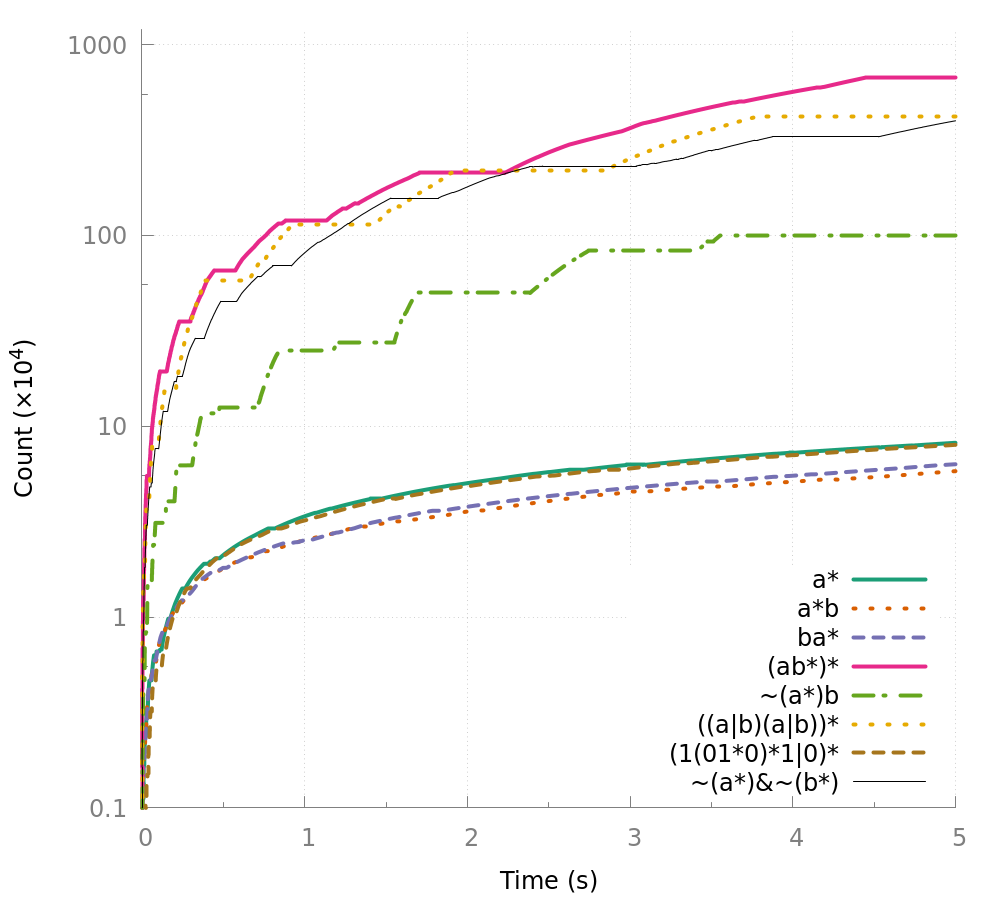
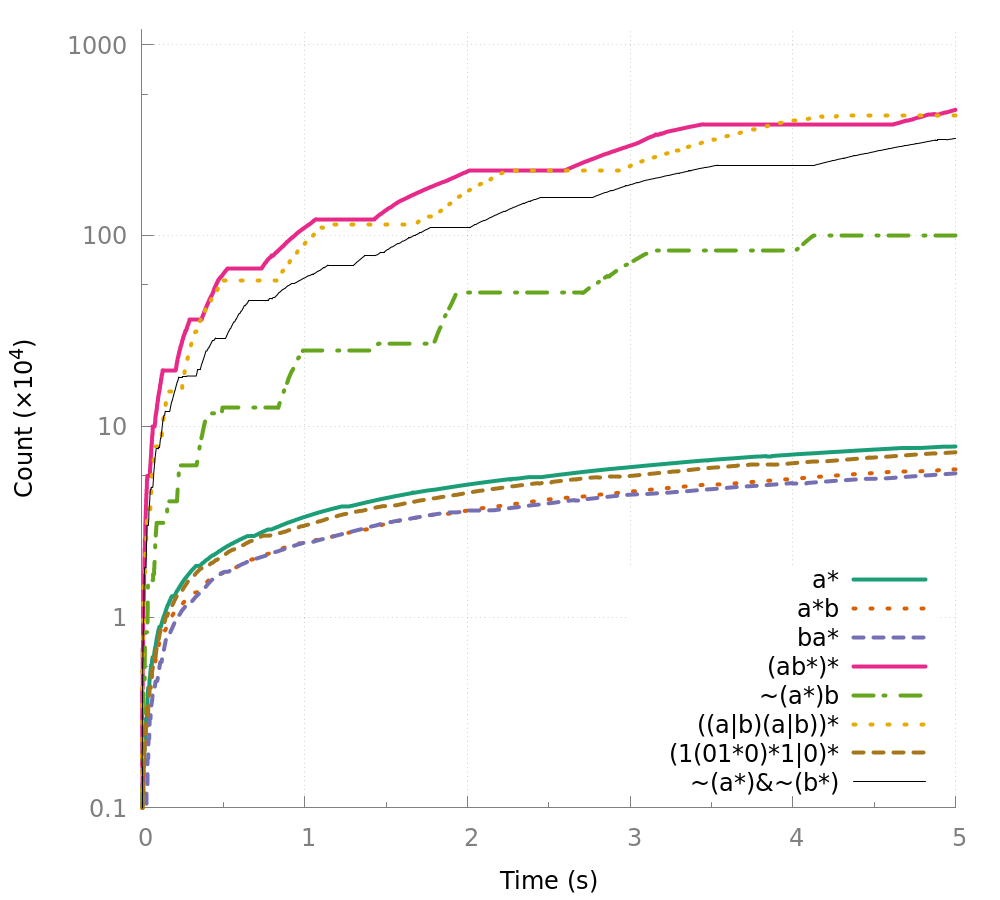
Update benchs and plot layouts.

diff --git a/bench.tex b/bench.tex
@@ -68,12 +68,12 @@ In the evaluation, we consider five variants of the Haskell implementation.
   combined with convolution.
 \end{itemize}
 
-\begin{figure*}[btp]
+\begin{figure}[!tp]
   \centering
-  \includegraphics[width=\textwidth]{measure/haskell_all.png}
+  \includegraphics[width=\linewidth]{measure/haskell_all.png}
   \caption{Benchmark for the \haskell implementation with various algorithms}
   \label{bench:haskell:all}
-\end{figure*}
+\end{figure}
 To evaluate the performance, we iterate through the stream of words
 produced by the generator and force their evaluation.\footnote{In
   Haskell, forcing is done using \lstinline{Control.DeepSeq}.} Every
@@ -120,15 +120,12 @@ remarks:
 
 \subsection{Comparing Data Structures in the \ocaml Implementation}
 \label{sec:bench:ocaml}
-\begin{figure*}[tp]
+\begin{figure}[!tp]
   \centering
   \includegraphics[width=\linewidth]{measure/ocaml_all.png}
   \caption{Benchmark for the \ocaml implementation with various data-structures}
   \label{bench:ocaml:all}
-  \includegraphics[width=0.66\linewidth]{measure/ocaml_union.png}
-  \caption{Benchmarking \texttt{union} in the \ocaml data-structures}
-  \label{bench:ocaml:union}
-\end{figure*}
+\end{figure}
 
 By now, we have established that the \textbf{refConv} algorithm
 provides the best overall performance.  The \haskell implementation,
@@ -167,6 +164,13 @@ the regular expression considered.
   that the linear cost of memoizing the thunk list and allocating the vectors
   is higher than simply recomputing lists.
 \end{itemize}
+
+
+\begin{figure}[!tp]
+  \includegraphics[width=\linewidth]{measure/ocaml_union.png}
+  \caption{Benchmarking \texttt{union} in the \ocaml data-structures}
+  \label{bench:ocaml:union}
+\end{figure}
 
 While the regular expressions presented previously do exercise
 \code{concatenation} and \code{star}, they do not exercise set
@@ -242,10 +246,9 @@ indices. Briefly put, long strings are harder to generate than short
 ones.
 
 Regarding symmetry, we find that the generation of $\Rstar{a}b$ and
-$b\Rstar{a}$ has the same performance in the \haskell implementation.
-The \ocaml version does not behave symmetrically, because it does not
-implement the improved convolution technique with detection of finite
-languages, as described in \cref{sec:convolution}.
+$b\Rstar{a}$ has the same performance in both implementations,
+thanks to the improved convolution technique
+with detection of finite languages described in \cref{sec:convolution}.
 
 
 
